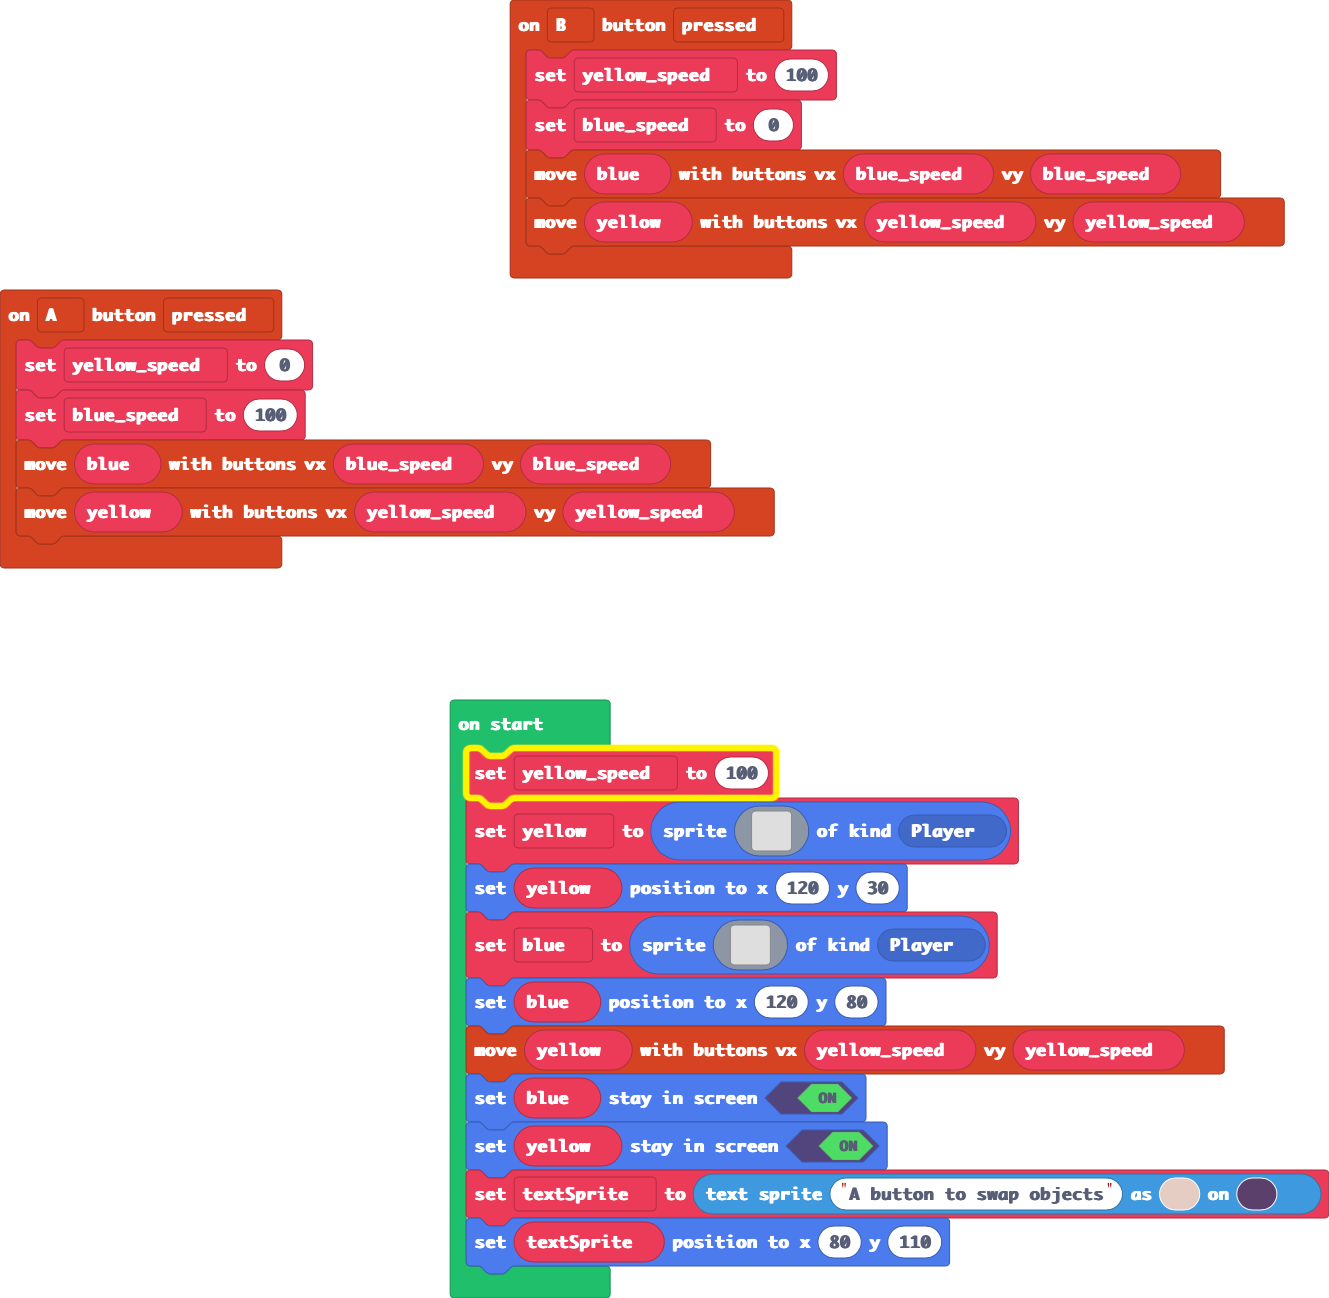
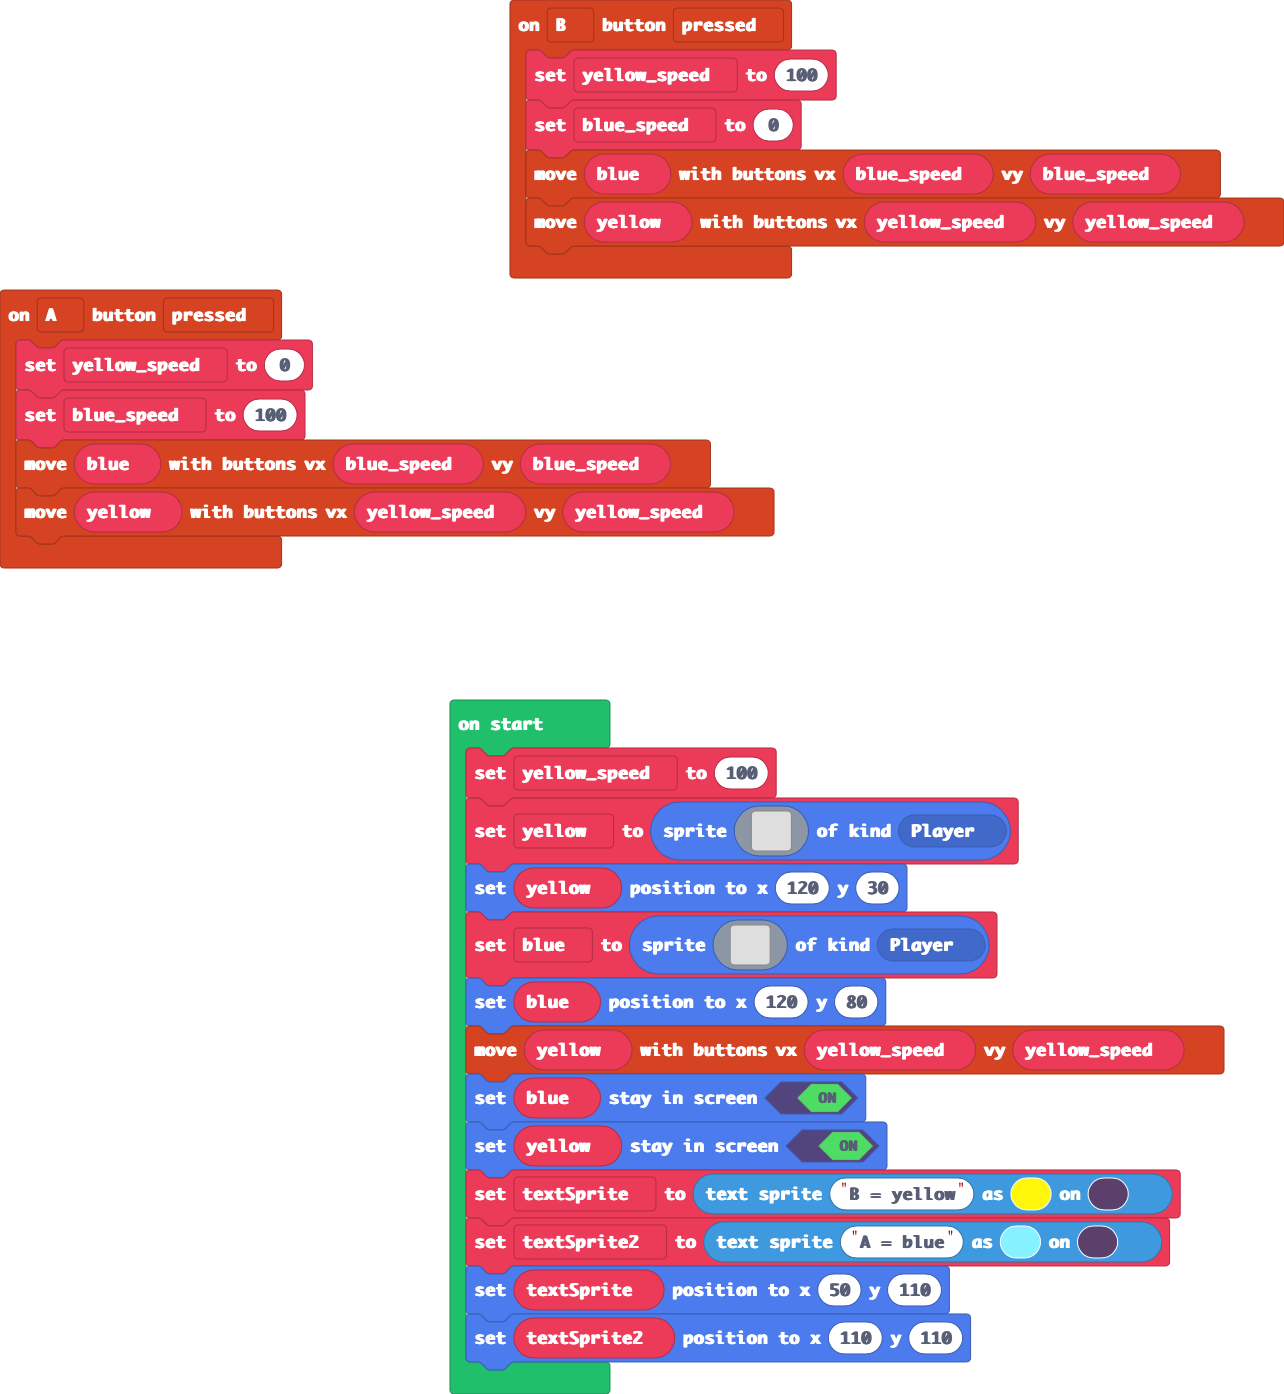
tutorial update

Changed region(s): [[0.3115, 0.4931, 1.0, 1.0], [0.0, 0.1849, 0.6231, 0.4622], [0.3738, 0.0, 1.0, 0.2157]]

diff --git a/main.ts b/main.ts
@@ -22,5 +22,7 @@ blue.setPosition(120, 80)
 controller.moveSprite(yellow, yellow_speed, yellow_speed)
 blue.setStayInScreen(true)
 yellow.setStayInScreen(true)
-let textSprite = textsprite.create("A button to swap objects", 12, 13)
-textSprite.setPosition(80, 110)
+let textSprite = textsprite.create("B = yellow", 12, 5)
+let textSprite2 = textsprite.create("A = blue", 12, 9)
+textSprite.setPosition(50, 110)
+textSprite2.setPosition(110, 110)
